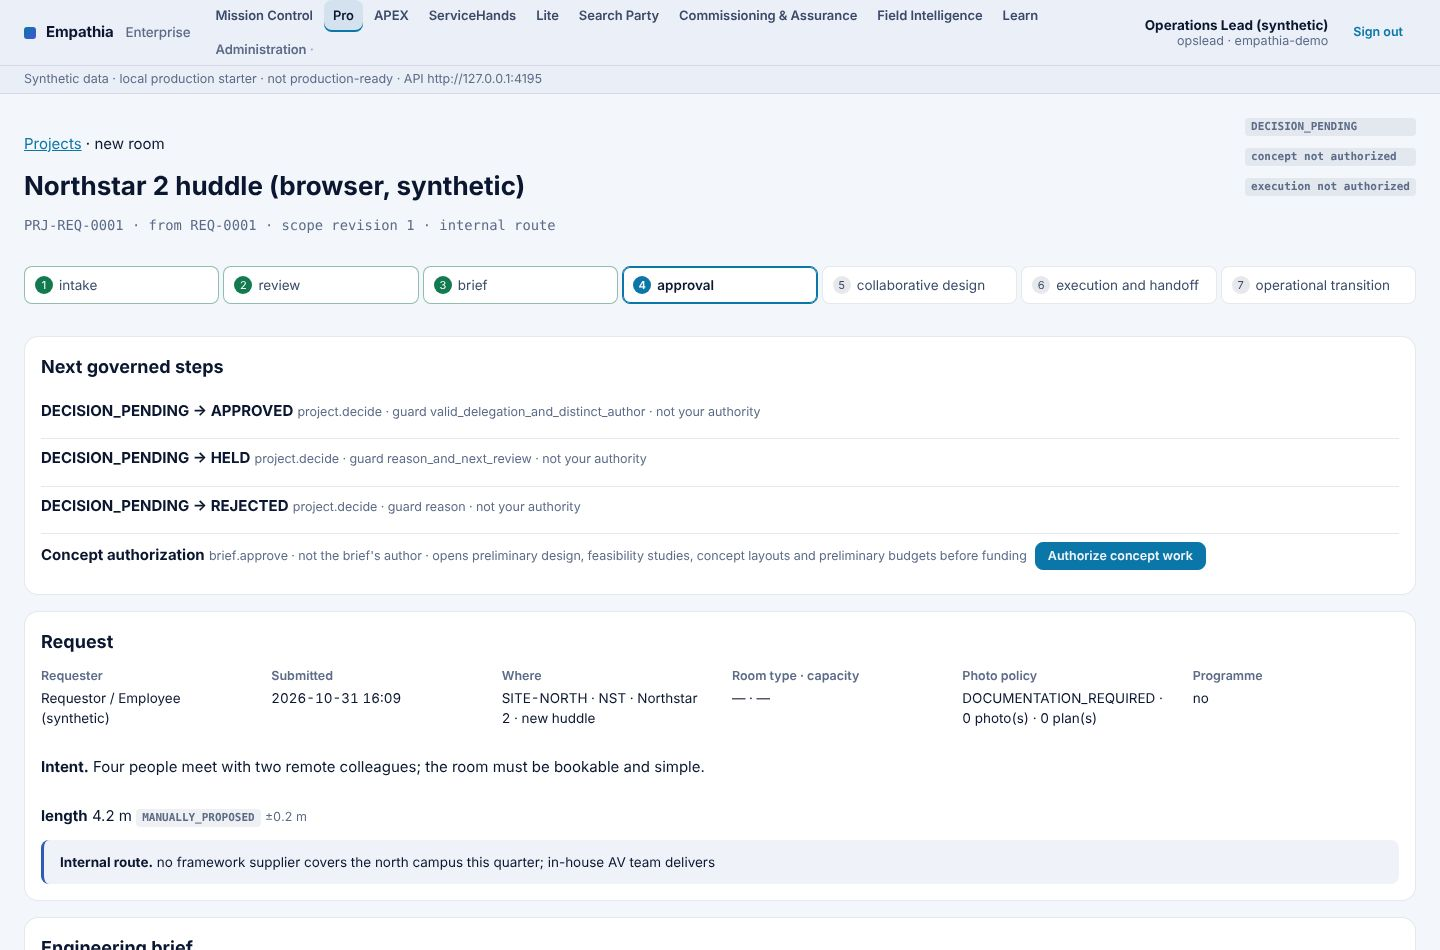
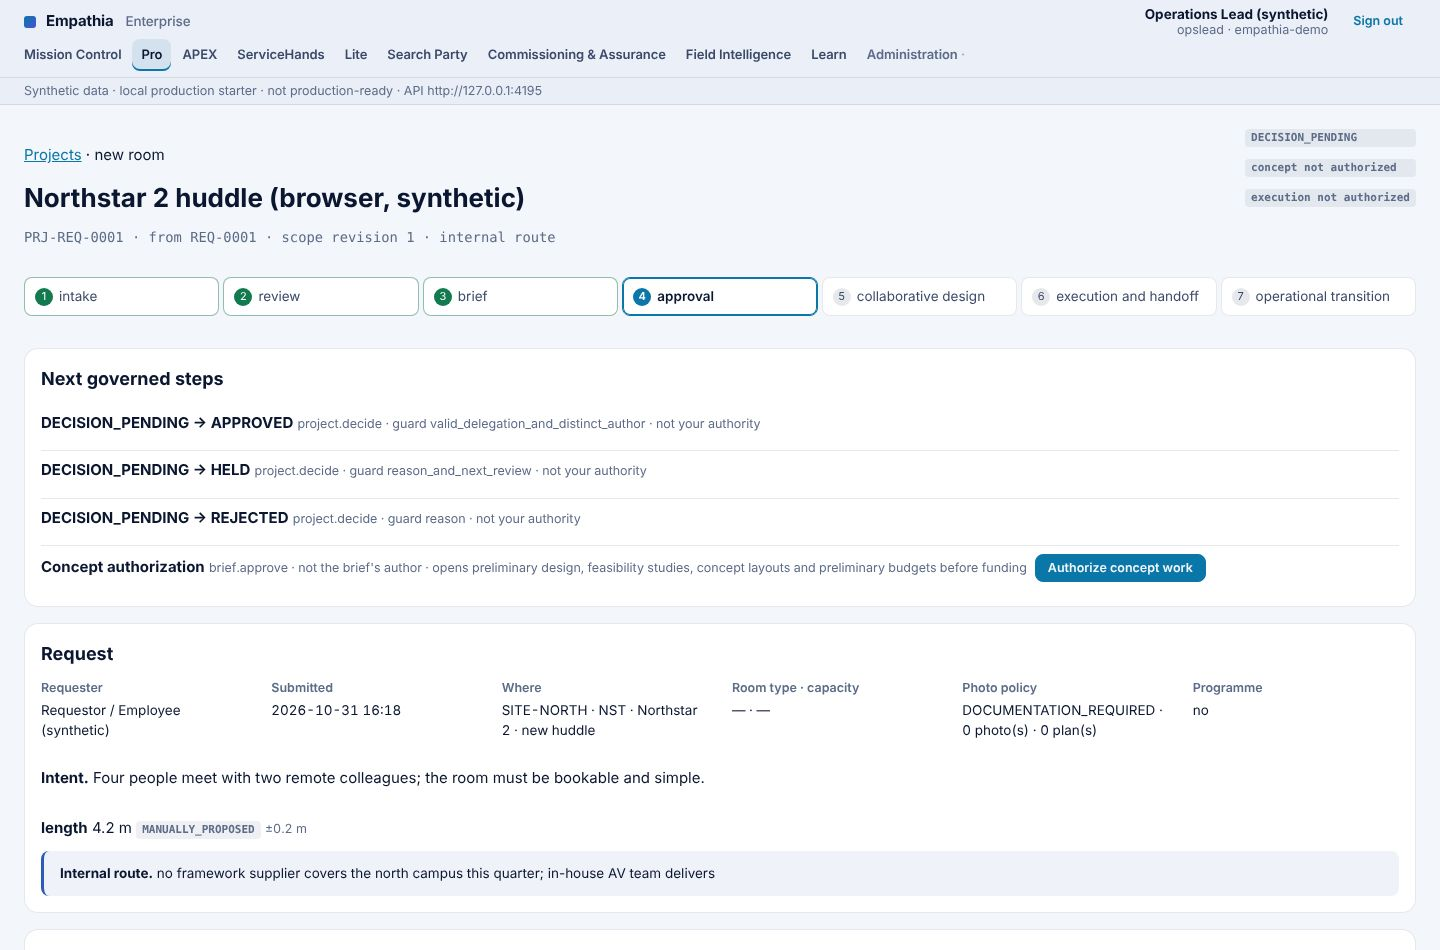
P1/P4: ServiceHands incident recurrence; one active work order per issue; enterprise shell fixes
Recurrence is derived from records only: earlier work orders on the same issue (unique per room and
finding; commissioning re-opens it when the finding returns) within 90 days, plus the job's own
reopenings. Shown on the work order and as a Mission Control exception.

Defect fixed: a second work order could be raised while one was still active on the same issue;
now refused with the active job named, and audited.

Not built, owner decision needed: SLA breach detection and escalation (SLA targets are text; no
business calendar, escalation path, authority or event exists in the source data).

Shell: below 1560px the product rail takes its own row instead of wrapping; Mission Control says
"Open records scanned".

Tests: SVC-11, W-78. Full regression: 45 PASS, 0 FAIL, 1 NOT RUN (full film decode).

Claude-Session: https://claude.ai/code/session_01RMXk1jVqvE4J2bVn1EY9vx

diff --git a/services/enterprise-api/src/domain/mission.ts b/services/enterprise-api/src/domain/mission.ts
@@ -13,6 +13,7 @@ import { APEX_OPEN, APEX_REVIEW } from './apex.js';
 import { LEARN_SME } from './learn.js';
 import { VERIFY_AUTHORITIES } from './commissioning.js';
 import { COMPETENCY_VERIFY } from './competency.js';
+import { RECURRENCE_WINDOW_DAYS } from './service.js';
 
 export interface Action { product: 'projects' | 'rooms' | 'commissioning' | 'service' | 'apex' | 'field' | 'learn'; kind: string; ref: string; title: string; detail: string; href: string; authority: string; at: string | null }
 export interface Exception { product: string; ref: string; title: string; detail: string; href: string; severity: 'high' | 'medium' | 'low'; at: string | null }
@@ -48,7 +49,7 @@ export async function missionControl(ctx: RequestContext) {
     }
 
     // service: the work-order steps that are the caller's (technician steps only for the assignee; verification never for the technician or a recorder)
-    const wos = (await q.query<{ code: string; state: string; severity: string | null; assigned_to: string | null; evidence: Array<{ recorderId: string }>; title: string; room_code: string; created_at: string }>(`SELECT w.code, w.state, w.severity, w.assigned_to, w.evidence, i.title, r.code AS room_code, w.created_at FROM app.work_order w JOIN app.room_issue i ON i.id = w.issue_id JOIN app.room r ON r.id = i.room_id JOIN ${S} s ON s.id = r.id WHERE w.state NOT IN ('CLOSED','CANCELLED') ORDER BY w.created_at DESC LIMIT 300`, args)).rows;
+    const wos = (await q.query<{ code: string; state: string; severity: string | null; assigned_to: string | null; evidence: Array<{ recorderId: string }>; title: string; room_code: string; created_at: string; reopen_count: number; prior: number }>(`SELECT w.code, w.state, w.severity, w.assigned_to, w.evidence, i.title, r.code AS room_code, w.created_at, w.reopen_count, (SELECT count(*)::int FROM app.work_order p WHERE p.issue_id = w.issue_id AND p.id <> w.id AND p.created_at < w.created_at AND p.created_at >= w.created_at - make_interval(days => ${RECURRENCE_WINDOW_DAYS})) AS prior FROM app.work_order w JOIN app.room_issue i ON i.id = w.issue_id JOIN app.room r ON r.id = i.room_id JOIN ${S} s ON s.id = r.id WHERE w.state NOT IN ('CLOSED','CANCELLED') ORDER BY w.created_at DESC LIMIT 300`, args)).rows;
     for (const w of wos) {
       for (const t of SERVICE_TRANSITIONS.filter((x) => x.from === w.state && can(x.authority))) {
         if (TECH_STEPS.has(w.state) && t.authority !== 'service.verify' && w.assigned_to !== me) continue;
@@ -56,6 +57,7 @@ export async function missionControl(ctx: RequestContext) {
         if (t.authority === 'service.verify' && (w.assigned_to === me || w.evidence.some((e) => e.recorderId === me))) continue;
         actions.push({ product: 'service', kind: t.to.toLowerCase(), ref: w.code, title: `${w.code} · ${w.title}: ${w.state} → ${t.to}`, detail: `${w.severity || 'not triaged'} · guard ${t.guard}`, href: `#/service/${w.code}`, authority: t.authority, at: w.created_at });
       }
+      if (w.prior > 0 || w.reopen_count > 0) exceptions.push({ product: 'service', ref: w.code, title: `${w.code}: recurring fault on ${w.room_code}`, detail: `${w.prior ? `${w.prior} earlier work order${w.prior === 1 ? '' : 's'} on this issue in ${RECURRENCE_WINDOW_DAYS} days` : ''}${w.prior && w.reopen_count ? '; ' : ''}${w.reopen_count ? `reopened ${w.reopen_count}×` : ''} · ${w.title}`, href: `#/service/${w.code}`, severity: 'medium', at: w.created_at });
       if (w.state === 'OPEN' && ['Mission critical', 'High'].includes(w.severity || '')) exceptions.push({ product: 'service', ref: w.code, title: `${w.code} is ${w.severity} and not assigned`, detail: w.title, href: `#/service/${w.code}`, severity: 'high', at: w.created_at });
     }
 

diff --git a/services/enterprise-api/src/domain/service.ts b/services/enterprise-api/src/domain/service.ts
@@ -84,13 +84,25 @@ function rank(ctx: RequestContext, staff: Array<Staff & { profiled: boolean }>, 
   return { need: out.need, eligible: out.eligible.filter((c) => !noProfile.has(c.id)), ineligible: [...out.ineligible.map(mark), ...out.eligible.filter((c) => noProfile.has(c.id)).map(mark)], none: out.eligible.filter((c) => !noProfile.has(c.id)).length === 0, whyNone: out.whyNone, today };
 }
 
+export const RECURRENCE_WINDOW_DAYS = 90;
+/** Incident recurrence, derived from records only: earlier work orders on the same issue (an issue is unique per room and finding key,
+ *  and commissioning re-opens it when the finding returns) created within the window before this one, and this job's own reopenings. */
+export async function recurrenceOf(q: Queryable, w: WorkOrderRow) {
+  const prior = (await q.query<{ code: string; state: string; created_at: string; closed_at: string | null; reopen_count: number }>(
+    `SELECT code, state, created_at, closed_at, reopen_count FROM app.work_order WHERE issue_id = $1 AND id <> $2 AND created_at < $3 AND created_at >= $3::timestamptz - make_interval(days => $4) ORDER BY created_at DESC`,
+    [w.issue_id, w.id, w.created_at, RECURRENCE_WINDOW_DAYS])).rows;
+  return { recurring: prior.length > 0 || w.reopen_count > 0, priorWorkOrders: prior.map((x) => ({ code: x.code, state: x.state, createdAt: x.created_at, closedAt: x.closed_at, reopenCount: x.reopen_count })), reopenCount: w.reopen_count, windowDays: RECURRENCE_WINDOW_DAYS,
+    basis: `earlier work orders on the same issue (same room, same finding) within ${RECURRENCE_WINDOW_DAYS} days, and this job's reopenings` };
+}
+
 export async function getWorkOrder(ctx: RequestContext, code: string) {
   return ctx.tx(async (q) => {
     const w = await find(ctx, q, code);
     const events = (await q.query<{ kind: string; detail: Record<string, unknown>; actor_id: string | null; at: string; actor: string | null }>('SELECT e.kind, e.detail, e.actor_id, e.at, p.display_name AS actor FROM app.work_order_event e LEFT JOIN app.person p ON p.id = e.actor_id WHERE e.work_order_id = $1 ORDER BY e.id', [w.id])).rows;
     const cands = (w.state === 'TRIAGED' && ctx.can('service.assign')) ? rank(ctx, await pool(ctx, q), w) : null;
     const need = WORK_NEEDS[w.work_type] || WORK_NEEDS['break_fix']!;
-    return { ...summary(w), note: w.note, triage: w.triage, window: w.window_from ? { from: w.window_from, to: w.window_to } : null, assignment: w.assignment, acceptedAt: w.accepted_at, preflight: w.preflight, startedAt: w.started_at, evidence: w.evidence, verification: w.verification,
+    const recurrence = await recurrenceOf(q, w);
+    return { ...summary(w), recurrence, note: w.note, triage: w.triage, window: w.window_from ? { from: w.window_from, to: w.window_to } : null, assignment: w.assignment, acceptedAt: w.accepted_at, preflight: w.preflight, startedAt: w.started_at, evidence: w.evidence, verification: w.verification,
       customerPolicy: { needsCustomerConfirmation: w.severity !== 'Standard', confirmed: w.customer_confirmed }, closedAt: w.closed_at, closingNote: w.closing_note, need: { certs: need.certs, experience: need.experience, tools: need.tools, parts: need.parts },
       nextSteps: nextSteps(ctx, w), candidates: cands, events, workTypes: Object.keys(WORK_NEEDS), severities: Object.keys(SLA) };
   });

diff --git a/apps/enterprise-web/src/pages/Service.tsx b/apps/enterprise-web/src/pages/Service.tsx
@@ -16,7 +16,9 @@ interface Row { code: string; state: string; workType: string; severity: string 
 interface Step { to: string; authority: string; guard: string; yours: boolean; blockers: string[] }
 interface Candidate { id: string; name: string; internal: boolean; hardOk: boolean; hardFails: string[]; score: number; reasons: string[]; coversSite: boolean }
 interface Check { id: string; label: string; ok: boolean; why: string }
+interface Recurrence { recurring: boolean; priorWorkOrders: Array<{ code: string; state: string; createdAt: string; closedAt: string | null; reopenCount: number }>; reopenCount: number; windowDays: number; basis: string }
 interface Record_ extends Row {
+  recurrence: Recurrence;
   note: string; triage: { scope: string; risk: string; byRole: string; at: string } | null; window: { from: string; to: string | null } | null; assignment: { score: number; reasons: string[] } | null; acceptedAt: string | null;
   preflight: { ok: boolean; checks: Check[]; at: string } | null; startedAt: string | null; evidence: Array<{ kind: string; note: string; ref: string | null; recorderId: string; at: string }>; verification: { outcome: string; note: string; verifierId: string; at: string } | null;
   customerPolicy: { needsCustomerConfirmation: boolean; confirmed: boolean }; closedAt: string | null; closingNote: string | null; need: { certs: string[]; experience: Record<string, string>; tools: string[]; parts: string[] };
@@ -80,6 +82,7 @@ export function WorkOrderRecord({ code }: { code: string }) {
         <div className="stack" data-testid="wo-state"><Tag tone={tone(w.state)}>{w.state}</Tag>{w.severity ? <Tag tone={w.severity === 'Standard' ? 'muted' : 'warn'}>{w.severity}</Tag> : null}{w.assignee ? <Tag tone="info">{w.assignee.name}</Tag> : null}</div></header>
       <ol className="stages" aria-label="Service stage" data-testid="wo-stages">{STATES.filter((s) => s !== 'REOPENED').map((s, i) => { const n = STATES.indexOf(w.state === 'REOPENED' ? 'OPEN' : w.state); return <li key={s} className={i < n ? 'done' : i === n ? 'now' : ''}><span className="stages__n">{i + 1}</span>{s.toLowerCase().replace(/_/g, ' ')}</li>; })}</ol>
       {act.error ? <ErrorState error={act.error} /> : null}
+      {w.recurrence?.recurring ? <Notice tone="warn"><span data-testid="wo-recurrence">Recurring fault: {w.recurrence.priorWorkOrders.length ? <>{w.recurrence.priorWorkOrders.length} earlier work order{w.recurrence.priorWorkOrders.length === 1 ? '' : 's'} on this issue in {w.recurrence.windowDays} days ({w.recurrence.priorWorkOrders.map((p, i) => <span key={p.code}>{i ? ', ' : ''}<a href={href('service', p.code)} className="mono">{p.code}</a> {p.state.toLowerCase()}</span>)})</> : null}{w.recurrence.priorWorkOrders.length && w.recurrence.reopenCount ? '; ' : ''}{w.recurrence.reopenCount ? `this job reopened ${w.recurrence.reopenCount}×` : ''}. Consider an APEX diagnosis of the cause before another repair.</span></Notice> : null}
 
       <section className="card stack" data-testid="wo-next"><h2 className="h3">Next governed step</h2>
         {w.state === 'CLOSED' ? <Notice tone="ok">Closed {when(w.closedAt)} — {w.closingNote || 'no note'}. Closing a work order never passes a test: the deficiency resolves only with a verified retest on the room.</Notice> : null}

diff --git a/apps/enterprise-web/src/pages/Mission.tsx b/apps/enterprise-web/src/pages/Mission.tsx
@@ -42,8 +42,8 @@ export function MissionControl() {
         </div>
         <aside className="stack" aria-label="Exceptions" data-testid="mission-exceptions">
           <h2 className="h3">Exceptions in your scope</h2>
-          {b.exceptions.length ? <ul className="mission__list">{b.exceptions.map((e, i) => <li key={i}><a href={e.href} className="mission__item"><span className="mission__title"><Tag tone={e.severity === 'high' ? 'bad' : 'warn'}>{e.severity}</Tag> {e.title}</span><span className="ui-meta">{e.detail}{e.at ? ` · ${age(e.at)}` : ''}</span></a></li>)}</ul> : <Notice tone="muted">No open high or critical issue, no unassigned urgent work order, no Field Intelligence session ended abnormally this week.</Notice>}
-          <p className="ui-meta">Scanned: {Object.entries(b.scanned).map(([k, v]) => `${v} ${k.replace(/([A-Z])/g, ' $1').toLowerCase()}`).join(' · ')}.</p>
+          {b.exceptions.length ? <ul className="mission__list">{b.exceptions.map((e, i) => <li key={i}><a href={e.href} className="mission__item"><span className="mission__title"><Tag tone={e.severity === 'high' ? 'bad' : 'warn'}>{e.severity}</Tag> {e.title}</span><span className="ui-meta">{e.detail}{e.at ? ` · ${age(e.at)}` : ''}</span></a></li>)}</ul> : <Notice tone="muted">No open high or critical issue, no unassigned urgent work order, no recurring fault, no Field Intelligence session ended abnormally this week.</Notice>}
+          <p className="ui-meta">Open records scanned: {Object.entries(b.scanned).map(([k, v]) => `${v} ${k.replace(/([A-Z])/g, ' $1').toLowerCase()}`).join(' · ')}.</p>
         </aside>
       </div>
     </section>

diff --git a/services/enterprise-api/src/domain/commissioning.ts b/services/enterprise-api/src/domain/commissioning.ts
@@ -157,6 +157,9 @@ export async function createWorkOrder(ctx: RequestContext, issueCode: string, bo
     const room = await findRoom(ctx, q, i.room_id);
     if (i.category !== 'INSTALLATION_COMMISSIONING_DEFICIENCY') throw refused(['a design deficiency on a planned room gets a design change, not a field work order']);
     if (i.state !== 'OPEN') throw refused(['the issue is not open']);
+    // one active job per issue: a second work order while one is still in progress would split the evidence and the verification
+    const active = (await q.query<{ code: string; state: string }>("SELECT code, state FROM app.work_order WHERE issue_id = $1 AND state NOT IN ('CLOSED','CANCELLED') ORDER BY created_at LIMIT 1", [i.id])).rows[0];
+    if (active) await ctx.refuse('work_order.create', { type: 'RoomIssue', id: issueCode }, [`work order ${active.code} is already active on this issue (${active.state}); reopen or continue it instead of raising another`]);
     const c = await code(q, 'workorder', 'WO-');
     const role = body.assignedRole || 'service';
     await q.query('INSERT INTO app.work_order (tenant_id, issue_id, code, assigned_role, note, created_by) VALUES ($1,$2,$3,$4,$5,$6)', [ctx.p.tenantId, i.id, c, role, String(body.note || '').slice(0, 1000), ctx.p.personId]);

diff --git a/packages/ui/src/ui.css b/packages/ui/src/ui.css
@@ -137,6 +137,8 @@
 .product__head { display: flex; justify-content: space-between; align-items: flex-end; gap: var(--sp-4); flex-wrap: wrap; margin-bottom: var(--sp-4); }
 .product__kicker { margin: 0 0 2px; color: var(--accent); font-weight: 700; font-size: var(--fs-sm); letter-spacing: .01em; }
 .product__purpose { margin: 4px 0 0; color: var(--tx2); max-width: 70ch; } .product__actions { display: flex; gap: var(--sp-2); flex-wrap: wrap; }
+/* Below 1560px the products no longer fit beside the identity: the rail takes its own full-width row, one line, instead of wrapping by accident */
+@media (max-width: 1560px) { .shell__bar { row-gap: 0; padding-top: 6px; } .shell__rail { order: 3; flex-basis: 100%; flex-wrap: nowrap; overflow-x: auto; padding: 2px 0 6px; margin-left: -9px; scrollbar-width: thin; } }
 @media (max-width: 820px) { .shell__bar { padding: 0 16px; gap: var(--sp-2); } .shell__rail { order: 3; flex-basis: 100%; overflow-x: auto; flex-wrap: nowrap; padding-bottom: 6px; } .shell__who { margin-left: auto; } .shell__identity { display: none; } .shell__note { padding: 4px 16px; } }
 
 /* ---------------------------------------------------------------- Search Party (shared by the enterprise app and the demonstration) */

diff --git a/tests/evidence/TEST_RESULTS.md b/tests/evidence/TEST_RESULTS.md
@@ -1,52 +1,52 @@
 # Test results
 
-Run 2026-10-31T16:13:38.103Z on Node v22.22.0. PASS 45 · FAIL 0 · NOT_RUN 1 suites.
+Run 2026-10-31T16:22:26.603Z on Node v22.22.0. PASS 45 · FAIL 0 · NOT_RUN 1 suites.
 
 | Suite | Kind | Result | Passed / tests | Seconds | Why not run |
 |---|---|---|---|---|---|
-| unit: packages/commissioning-engine | unit | PASS | 128/128 | 0.6 |  |
-| unit: packages/event-contracts | unit | PASS | 3/3 | 0.2 |  |
+| unit: packages/commissioning-engine | unit | PASS | 128/128 | 0.5 |  |
+| unit: packages/event-contracts | unit | PASS | 3/3 | 0.1 |  |
 | unit: packages/relationship-engine | unit | PASS | 5/5 | 0.1 |  |
 | unit: packages/search-party | unit | PASS | 5/5 | 0.2 |  |
-| unit: packages/project-governance | unit | PASS | 9/9 | 0.2 |  |
+| unit: packages/project-governance | unit | PASS | 9/9 | 0.1 |  |
 | unit: packages/service-engine | unit | PASS | 5/5 | 0.1 |  |
-| unit: packages/apex-engine | unit | PASS | 4/4 | 0.2 |  |
-| unit: packages/kpi-engine | unit | PASS | 4/4 | 0.2 |  |
-| unit: packages/field-intelligence | unit | PASS | 4/4 | 0.2 |  |
-| unit: packages/assurance-engine | unit | PASS | 13/13 | 0.2 |  |
+| unit: packages/apex-engine | unit | PASS | 4/4 | 0.1 |  |
+| unit: packages/kpi-engine | unit | PASS | 4/4 | 0.1 |  |
+| unit: packages/field-intelligence | unit | PASS | 4/4 | 0.1 |  |
+| unit: packages/assurance-engine | unit | PASS | 13/13 | 0.1 |  |
 | unit: packages/observability | unit | PASS | 10/10 | 0.2 |  |
-| unit: packages/api-client | unit | PASS | 5/5 | 0.2 |  |
+| unit: packages/api-client | unit | PASS | 5/5 | 0.1 |  |
 | unit: packages/schemas | unit | PASS | 3/3 | 0.2 |  |
-| unit: integrations/contracts | unit | PASS | 7/7 | 0.1 |  |
+| unit: integrations/contracts | unit | PASS | 7/7 | 0.2 |  |
 | unit: integrations/mocks | unit | PASS | 5/5 | 0.1 |  |
-| unit: ml research prototype (python) | unit | PASS | 5/5 | 6 |  |
-| service: intelligence-python | integration | PASS | 4/4 | 0.7 |  |
-| integration: api.test.mjs | integration | PASS | 21/21 | 5.2 |  |
-| integration: leads.test.mjs | integration | PASS | 5/5 | 2.3 |  |
+| unit: ml research prototype (python) | unit | PASS | 5/5 | 5.8 |  |
+| service: intelligence-python | integration | PASS | 4/4 | 0.6 |  |
+| integration: api.test.mjs | integration | PASS | 21/21 | 5 |  |
+| integration: leads.test.mjs | integration | PASS | 5/5 | 2.1 |  |
 | integration: api-client.test.mjs | integration | PASS | 3/3 | 2 |  |
-| integration: integration-worker.test.mjs | integration | PASS | 1/1 | 2.1 |  |
-| integration: observability.test.mjs | integration | PASS | 5/5 | 2.3 |  |
-| security: authz.test.mjs | security | PASS | 45/45 | 4.9 |  |
-| security: founder-boundary.test.mjs | security | PASS | 6/6 | 2.6 |  |
-| security: site-scope.test.mjs | security | PASS | 3/3 | 3.1 |  |
-| security: authority-matrix.test.mjs | security | PASS | 2/2 | 12 |  |
-| security: governance.test.mjs | security | PASS | 9/9 | 7.2 |  |
-| security: administration.test.mjs | security | PASS | 5/5 | 3.3 |  |
+| integration: integration-worker.test.mjs | integration | PASS | 1/1 | 2.2 |  |
+| integration: observability.test.mjs | integration | PASS | 5/5 | 1.9 |  |
+| security: authz.test.mjs | security | PASS | 45/45 | 4.8 |  |
+| security: founder-boundary.test.mjs | security | PASS | 6/6 | 2.7 |  |
+| security: site-scope.test.mjs | security | PASS | 3/3 | 3.2 |  |
+| security: authority-matrix.test.mjs | security | PASS | 2/2 | 10.9 |  |
+| security: governance.test.mjs | security | PASS | 9/9 | 6.6 |  |
+| security: administration.test.mjs | security | PASS | 5/5 | 3.2 |  |
 | security: search-party.test.mjs | security | PASS | 7/7 | 3.5 |  |
-| security: oidc.test.mjs | security | PASS | 4/4 | 2.3 |  |
-| security: project-lifecycle.test.mjs | security | PASS | 13/13 | 7.6 |  |
-| security: service-lifecycle.test.mjs | security | PASS | 10/10 | 3.7 |  |
-| security: apex.test.mjs | security | PASS | 5/5 | 3.3 |  |
-| security: field-intelligence.test.mjs | security | PASS | 6/6 | 3.4 |  |
+| security: oidc.test.mjs | security | PASS | 4/4 | 2.1 |  |
+| security: project-lifecycle.test.mjs | security | PASS | 13/13 | 7.4 |  |
+| security: service-lifecycle.test.mjs | security | PASS | 11/11 | 3.6 |  |
+| security: apex.test.mjs | security | PASS | 5/5 | 3.4 |  |
+| security: field-intelligence.test.mjs | security | PASS | 6/6 | 3.5 |  |
 | security: learn.test.mjs | security | PASS | 4/4 | 3.3 |  |
-| security: mission-control.test.mjs | security | PASS | 8/8 | 3.4 |  |
-| security: competency.test.mjs | security | PASS | 6/6 | 4.7 |  |
-| security: ledger.test.mjs | security | PASS | 5/5 | 3.2 |  |
-| e2e: website lead form over the API | e2e | PASS | 6/6 | 4.5 |  |
-| browser: enterprise web E2E | e2e | PASS | 86/86 | 31.1 |  |
-| browser: public website | browser | PASS | 32/32 | 7.6 |  |
-| browser: investor demo shell | browser | PASS | 101/101 | 98.8 |  |
-| browser: Founder Studio | browser | PASS | 19/19 | 40.9 |  |
+| security: mission-control.test.mjs | security | PASS | 8/8 | 3.6 |  |
+| security: competency.test.mjs | security | PASS | 6/6 | 4.4 |  |
+| security: ledger.test.mjs | security | PASS | 5/5 | 3.4 |  |
+| e2e: website lead form over the API | e2e | PASS | 6/6 | 4.9 |  |
+| browser: enterprise web E2E | e2e | PASS | 86/86 | 32.2 |  |
+| browser: public website | browser | PASS | 32/32 | 7.5 |  |
+| browser: investor demo shell | browser | PASS | 101/101 | 97.6 |  |
+| browser: Founder Studio | browser | PASS | 19/19 | 43.1 |  |
 | e2e: founder town hall (Founder Edition) | e2e | PASS | 25/25 | 49.9 |  |
-| e2e: founder decisions (hosted studio over the API) | e2e | PASS | 9/9 | 7.1 |  |
+| e2e: founder decisions (hosted studio over the API) | e2e | PASS | 9/9 | 7.3 |  |
 | media: full decode of every curated film | media | NOT_RUN | — | — | pass --films (slow: decodes ~47 minutes of video) |

diff --git a/docs/BUILD_STATUS.md b/docs/BUILD_STATUS.md
@@ -217,6 +217,21 @@ Not built: SIGNAL labs (91 simulators); the enterprise app's service/APEX/execut
 | Defect found during validation | — | MC-8 first expected an approval edge on a Learn case that was never approved (MC-6 stops before the steward acts). The graph was right, so the test now asserts that no approval edge is invented |
 | Not built | — | `TYPES.json` (carried over from V2.5.3) has no APEX or Field Intelligence session type, and it was not edited; these appear under the API's own type names (`ApexCase`, `FieldSession`). Search Party in the demo is unchanged |
 
+### P1 (Ascension) — ServiceHands incident recurrence (2026-10-31)
+
+| Item | Status | Evidence |
+|---|---|---|
+| Recurrence derived from records only. An issue is unique per room and finding, and commissioning re-opens it when the finding returns, so a recurrence is an earlier work order on the same issue within 90 days, plus the job's own reopenings. Shown on the work order ("Recurring fault", links to the earlier jobs) and as a Mission Control exception | IMPLEMENTED · TESTED | SVC-11 |
+| Defect found and fixed | — | a second work order could be raised while one was still active on the same issue, which would split evidence and verification. It is now refused with the active job named, and the refusal is audited (SVC-11) |
+| Not built (owner decision needed) | — | **SLA breach detection and escalation.** The SLA targets carried over from V2.5.3 are text ("next business day", "2 business days"), and no business calendar, escalation path, escalation authority or escalation event exists in the source data. Computing breaches needs a defined calendar (working days, hours, holidays per site). Escalating needs a defined path (who is told, who takes over). Neither was invented |
+
+### P4 (Ascension) — enterprise shell fixes from screenshot review (2026-10-31)
+
+| Item | Status | Evidence |
+|---|---|---|
+| The product rail wrapped "Administration" onto a second line at 1440px (visible in every enterprise screenshot). Below 1560px the rail now takes its own full-width row, on one line, scrolling sideways inside itself if needed; the phone layout is unchanged | DONE | screenshots `19-mission-control`, `21-ledger-integrity`; W-21 (no horizontal page scroll at phone width) |
+| Mission Control's "Scanned" line counted only open records but did not say so ("0 learn cases" while an approved case existed); it now reads "Open records scanned" | DONE | W-78 |
+
 ### Connector expansion directive (2026-10-31 05:34 CT) — what was actually done
 
 | Item | Status | Evidence |
